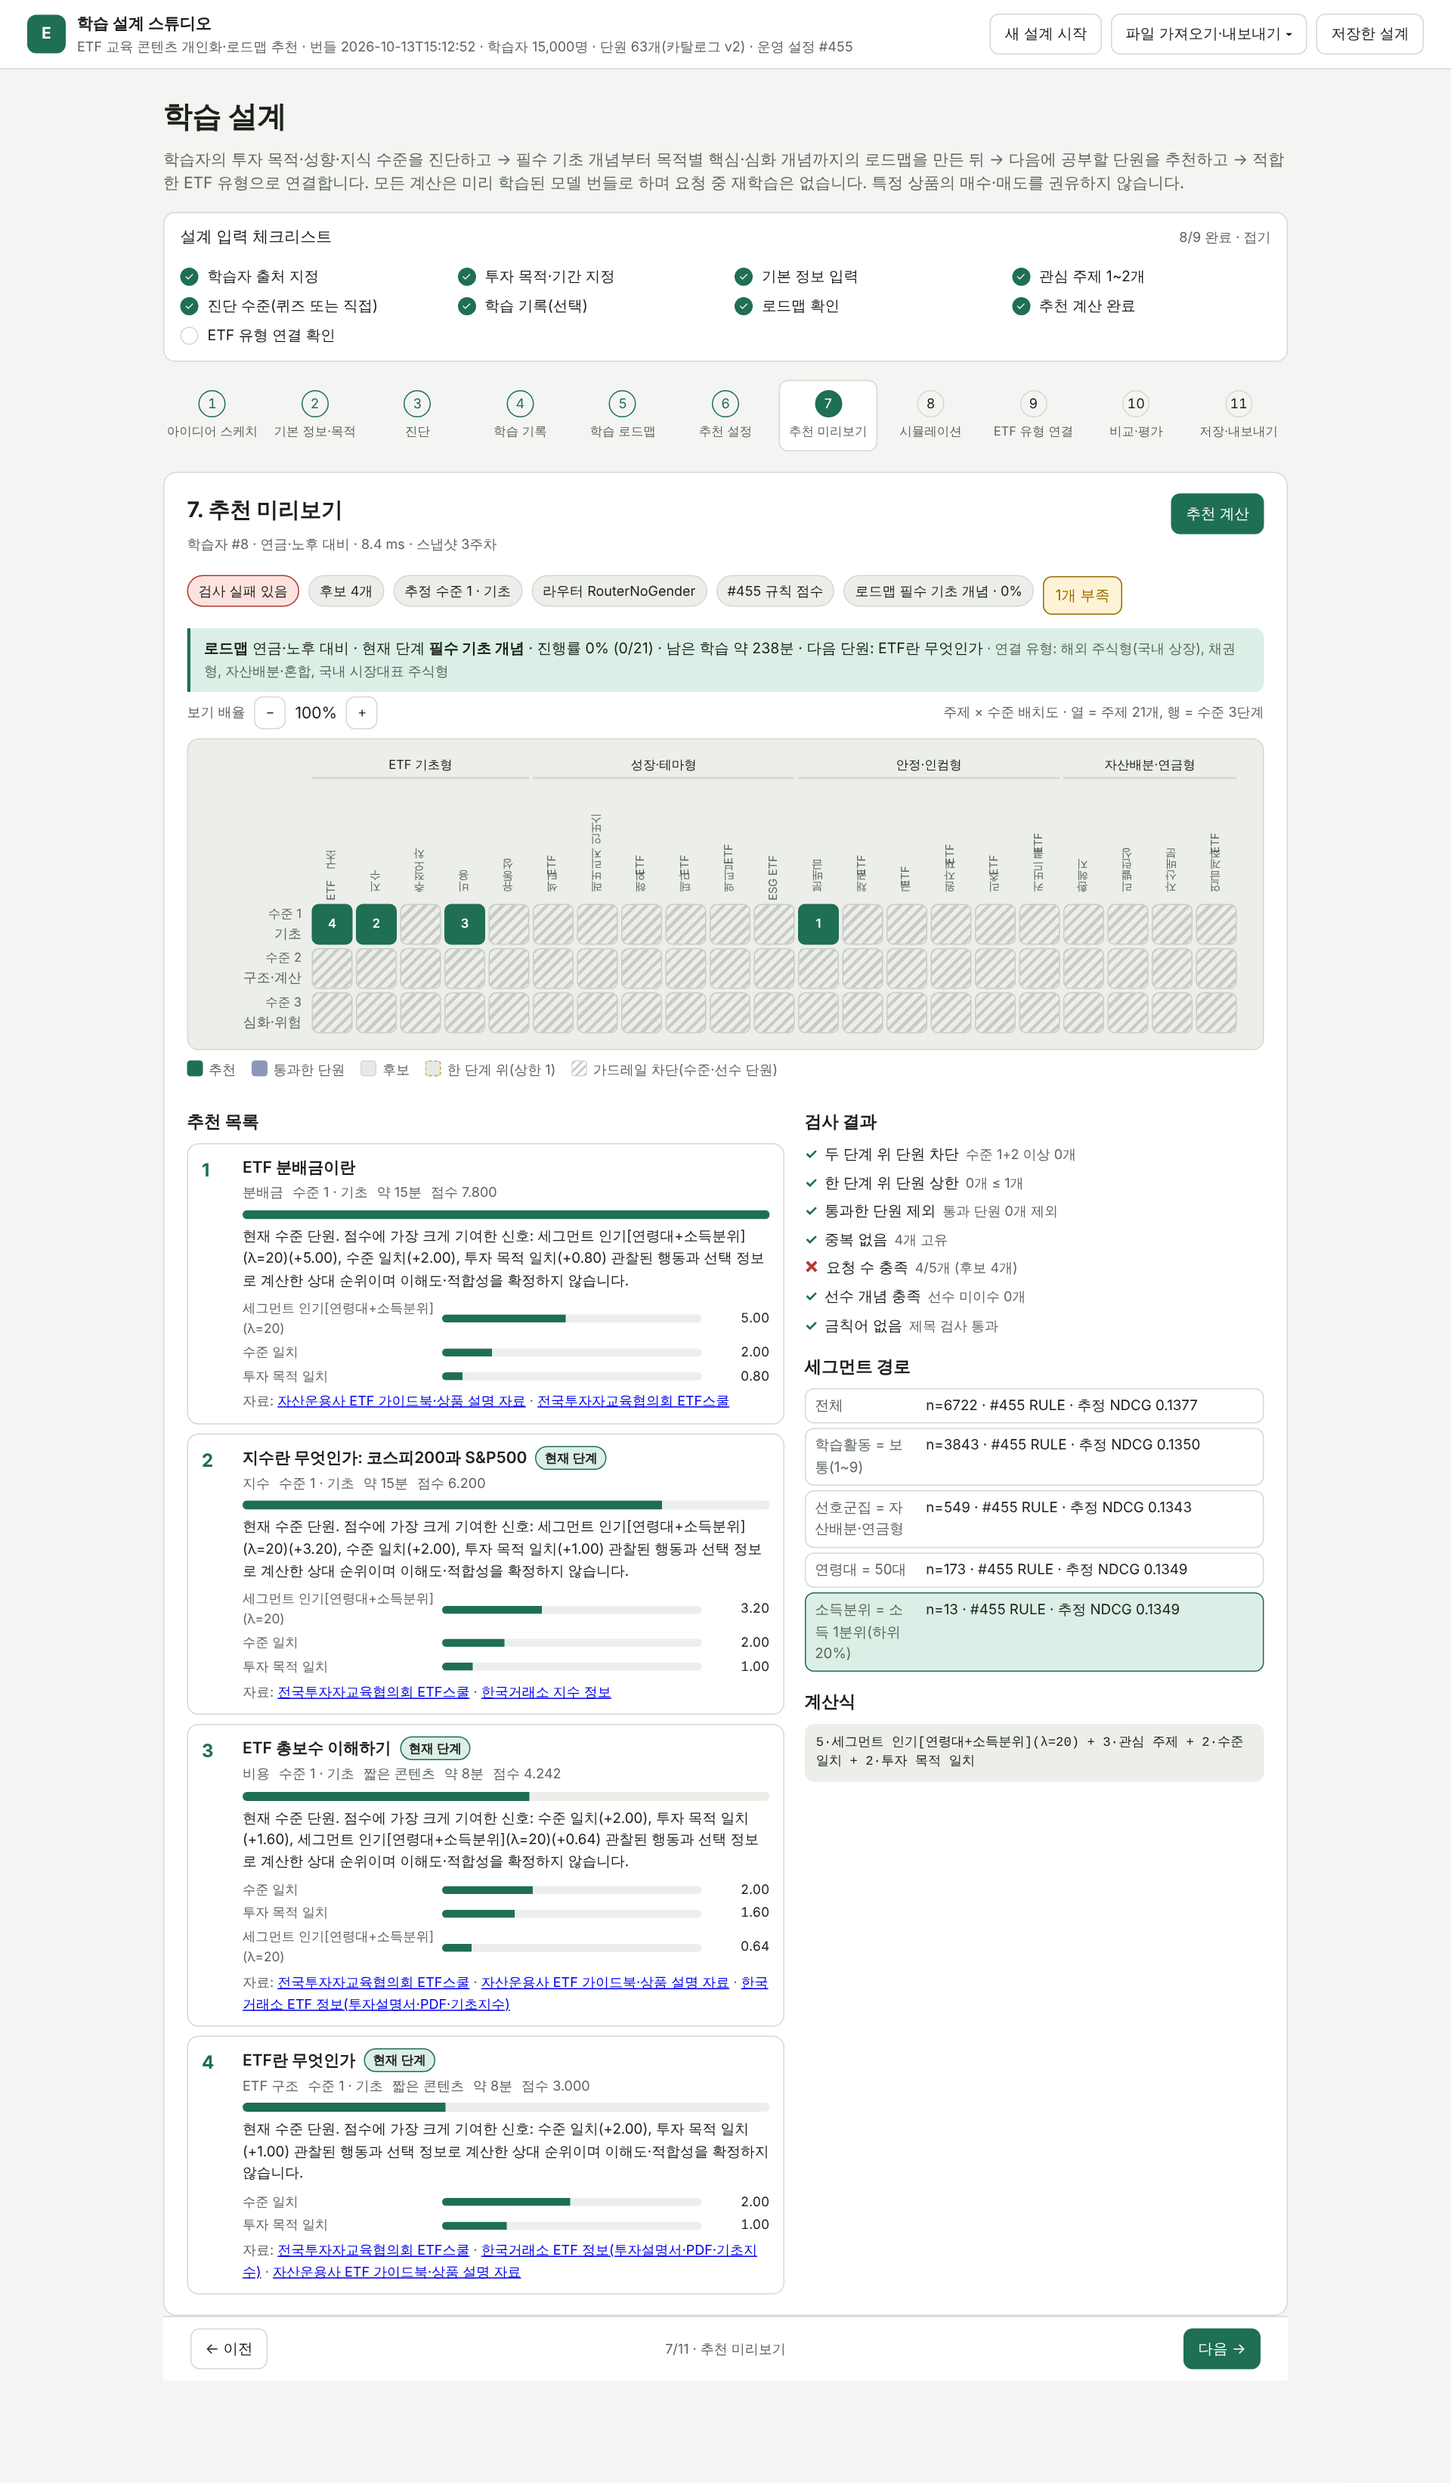
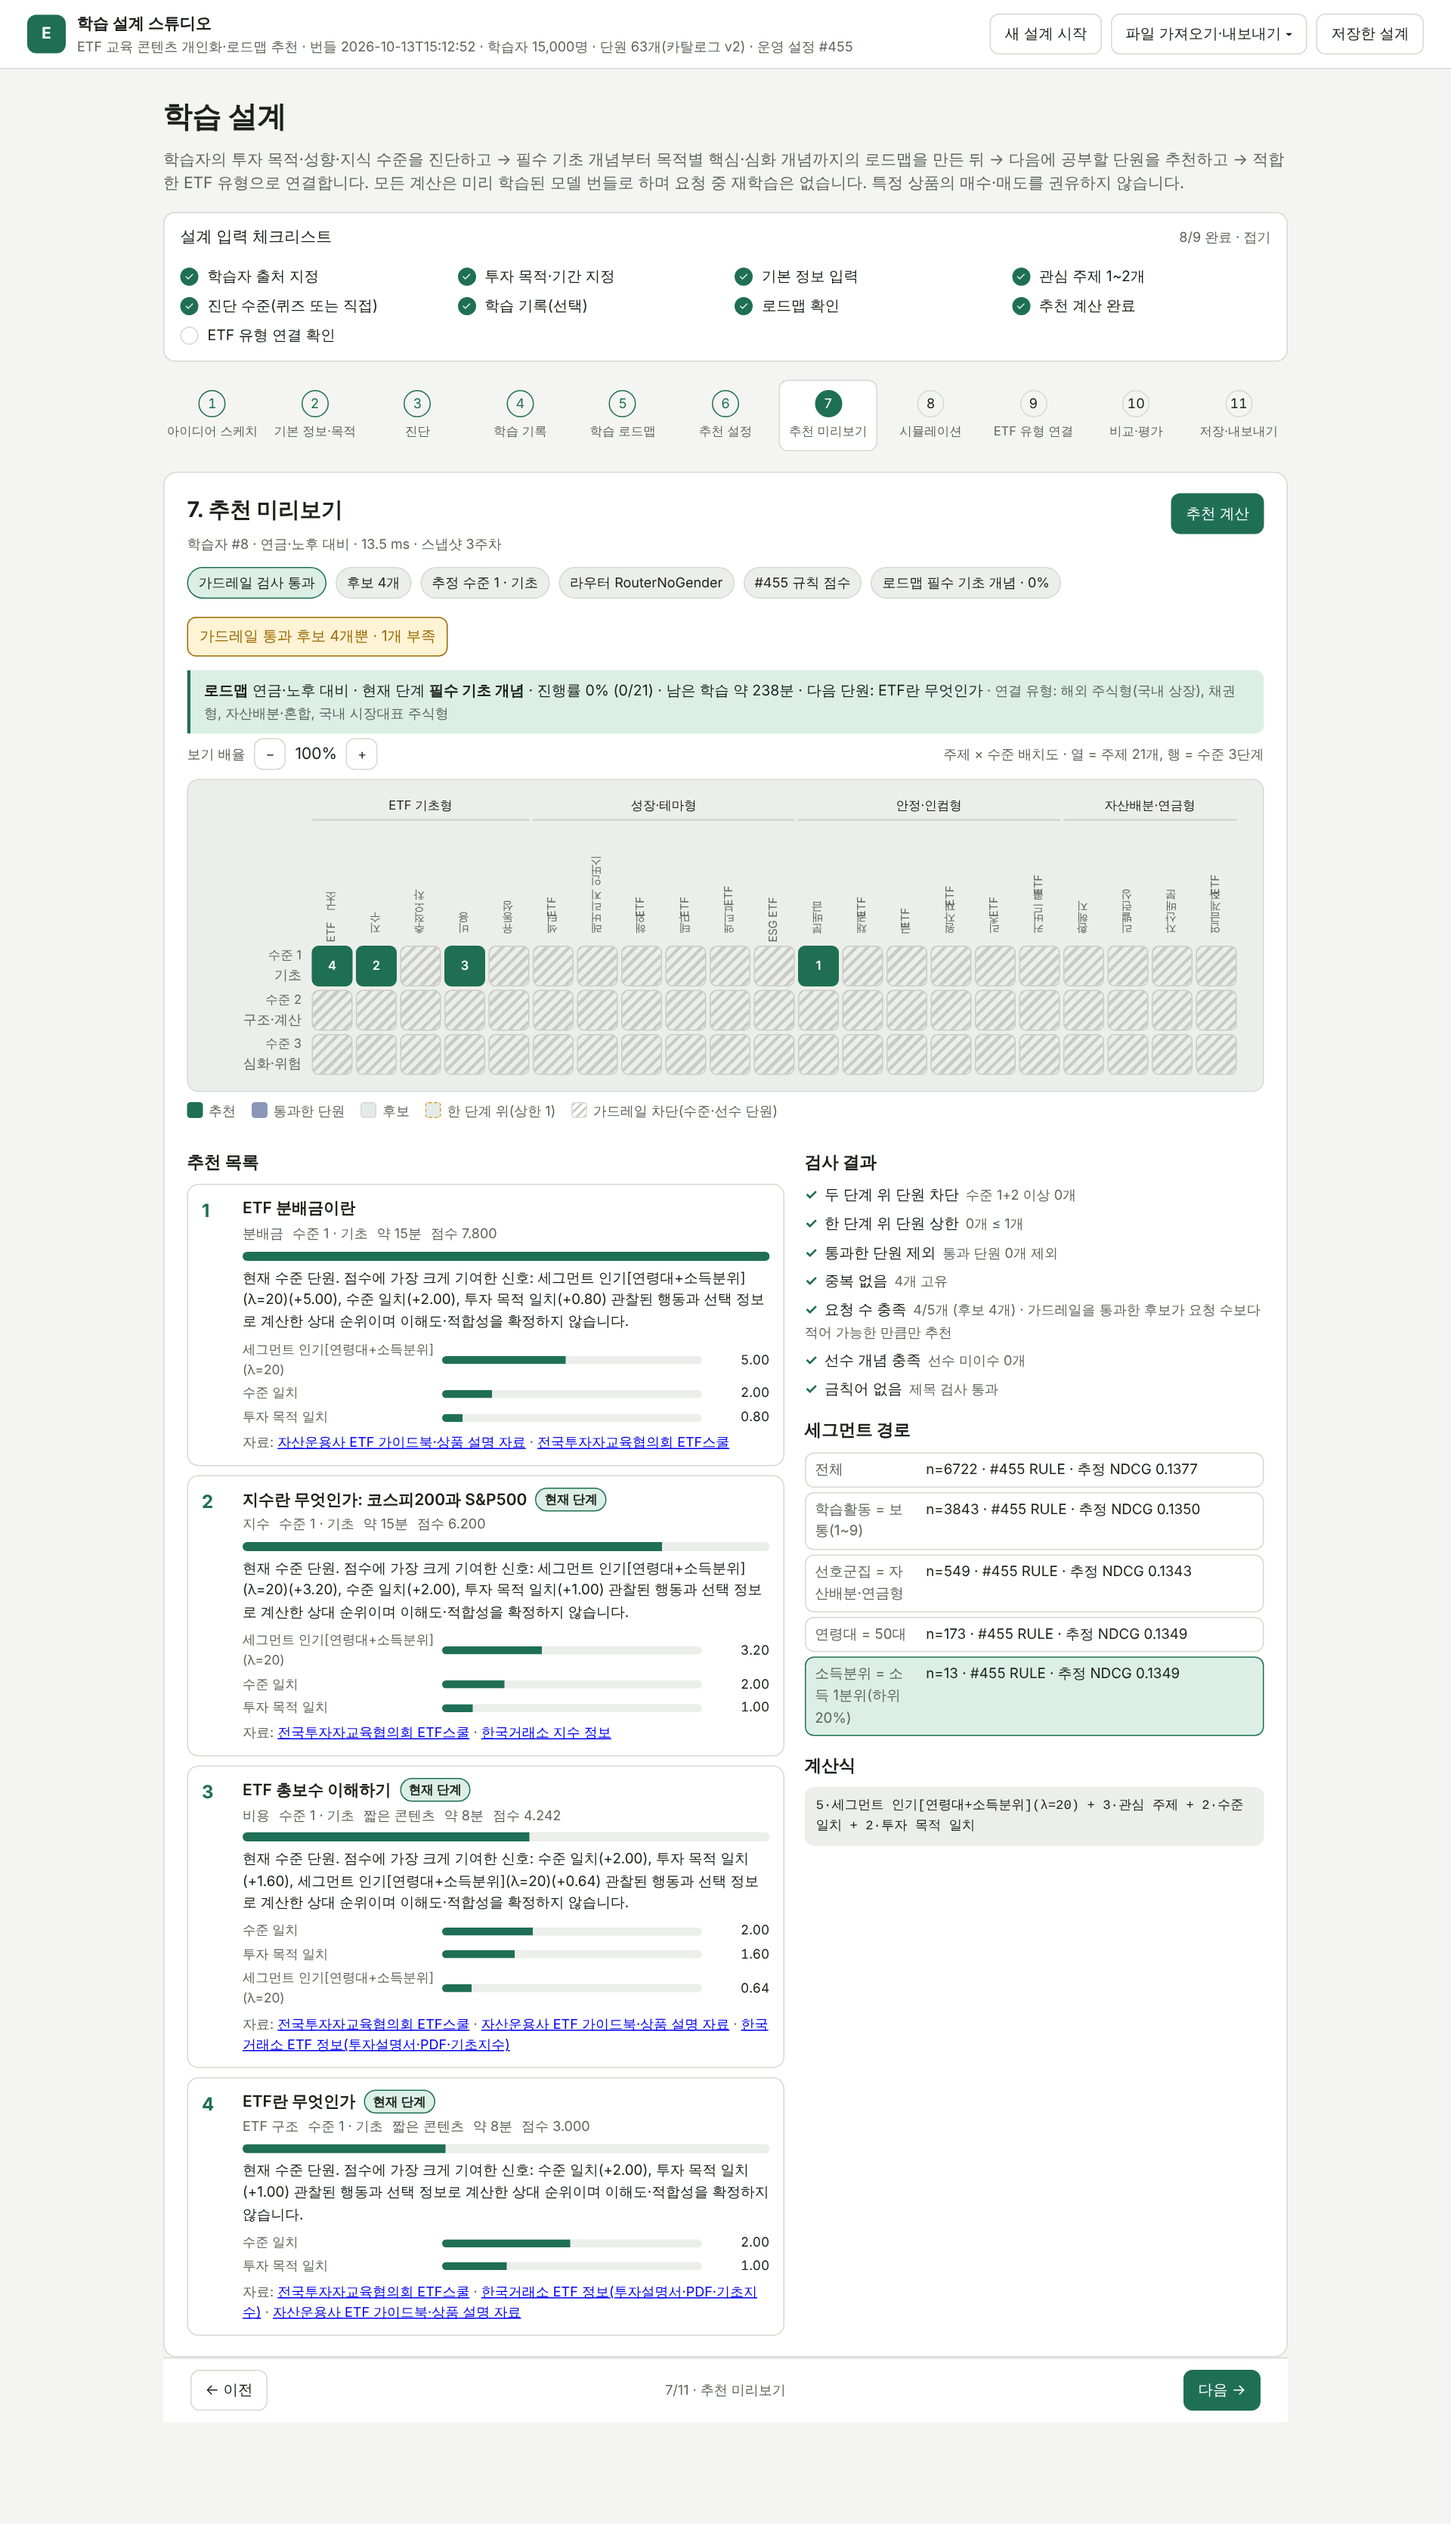
Parameterize generator v2 strengths, add prerequisite-penalty sensitivity script, soften the request-count check under guardrails
- TrainConfig.goal_effect / prereq_penalty 전달(기본값은 기존 상수와 같아 v2 번들 세계 불변 확인)
- scripts/prereq_sensitivity.py + docs/results/prereq_sensitivity.json: 선수 페널티 0.8→2.0→4.0에서 가드레일 비용 역전
- 요청 수 충족 검사는 가드레일 통과 후보가 k보다 적을 때 가능한 만큼 추천하면 통과로 기록, UI 배지 문구 보완
- 화면 캡처 재생성(기존 학습자 미리보기 반영)

Claude-Session: https://claude.ai/code/session_01Tgh9FaD7Z5CarJfhd185SF

diff --git a/etfrec/ui/app.js b/etfrec/ui/app.js
@@ -346,7 +346,7 @@
     $("#rec-view").hidden = false;
     const allOk = r.checks.every(c => c.passed); const rm = r.roadmap || {};
     $("#rec-badges").innerHTML = `<span class="badge ${allOk ? "ok" : "bad"}">${allOk ? "가드레일 검사 통과" : "검사 실패 있음"}</span><span class="badge">후보 ${r.candidates ?? 0}개</span><span class="badge">추정 수준 ${r.level} · ${LEVEL_NAME[r.level]}</span><span class="badge">${r.router ? "라우터 " + r.router : "설정 강제"}</span><span class="badge">#${r.algorithm_id} ${esc(r.family_label)}</span>` +
-      (rm.current_stage_name ? `<span class="badge">로드맵 ${esc(rm.current_stage_name)} · ${pct(rm.progress)}</span>` : "") + (r.shortfall ? `<span class="badge warn">${r.shortfall}개 부족</span>` : "");
+      (rm.current_stage_name ? `<span class="badge">로드맵 ${esc(rm.current_stage_name)} · ${pct(rm.progress)}</span>` : "") + (r.shortfall ? `<span class="badge warn">${(r.candidates ?? 0) < r.k ? `가드레일 통과 후보 ${r.candidates}개뿐 · ` : ""}${r.shortfall}개 부족</span>` : "");
     $("#rec-roadmap").innerHTML = rm.next_unit ? `<b>로드맵</b> ${esc(rm.goal_label)} · 현재 단계 <b>${esc(rm.current_stage_name)}</b> · 진행률 ${pct(rm.progress)} (${rm.units_passed}/${rm.units_total}) · 남은 학습 약 ${rm.minutes_left}분 · 다음 단원: ${esc(rm.next_unit.title)}<span class="muted small"> · 연결 유형: ${(rm.types || []).map(k => esc(META.type_names[k] || k)).join(", ")}</span>`
       : `<b>로드맵</b> ${esc(rm.goal_label || "")} · 로드맵 단원을 모두 통과했습니다. 연결 유형: ${(rm.types || []).map(k => esc(META.type_names[k] || k)).join(", ")}`;
     renderMap(r.topic_map, "#topic-map");

diff --git a/scripts/prereq_sensitivity.py b/scripts/prereq_sensitivity.py
@@ -1,0 +1,33 @@
+"""선수 페널티 강도에 따른 선수 가드레일 비용 민감도 (작은 모의 세계, 학습자 3,000명 · 약 40초/세계).
+
+    python scripts/prereq_sensitivity.py [out.json]
+
+생성기 v2의 '미이수 선수 단원 1개당 완료·통과 로짓 감소'(기본 0.8)를 0.8 → 2.0 → 4.0으로 키우며,
+운영 라우터와 '운영 라우터+선수 가드레일'의 테스트 NDCG@5·선수 미이수 비율·짧은 목록 비율을 기록한다.
+선수 관계가 학습 성과를 강하게 지배하는 세계일수록 가드레일의 정확도 비용이 줄고 역전된다(중간보고서 5절).
+"""
+import json, sys, time
+sys.path.insert(0, ".")
+from etfrec.config import TrainConfig
+from etfrec.data import Dataset
+from etfrec.pipeline import train
+
+out = []
+for pen in [0.8, 2.0, 4.0]:
+    t0 = time.time()
+    cfg = TrainConfig(n_learners=3000, prereq_penalty=pen, router_reps=1, bootstrap_n=100)
+    b = train(Dataset.synthetic(cfg), cfg, out_dir=None, log=lambda *a, **k: None)
+    res = b.results.set_index("method")
+    row = dict(prereq_penalty=pen, users=int(res.loc["RULE", "users"]), validation_best=float(b.selection["validation_best_ndcg"]),
+               operational=b.algos[b.selection["operational_algorithm"]].name, seconds=round(time.time() - t0, 1),
+               quiz_pass=int(b.dataset_summary["quiz_pass"]), attempts=int(b.dataset_summary["study_attempts"]))
+    for m in ["Global", "RouterNoGender", "RouterNoGender+prereq", "POP", "UCF"]:
+        if m in res.index:
+            row[m] = dict(ndcg=float(res.loc[m, "ndcg"]), prereq_violation_rate=float(res.loc[m, "prereq_violation_rate"]),
+                          short_list_rate=float(res.loc[m, "short_list_rate"]), diversity=float(res.loc[m, "diversity"]),
+                          ci_low=float(res.loc[m, "ci_low"]), ci_high=float(res.loc[m, "ci_high"]))
+    out.append(row)
+    print(f"페널티 {pen}: 라우터 {row['RouterNoGender']['ndcg']:.4f} vs +prereq {row['RouterNoGender+prereq']['ndcg']:.4f} "
+          f"(위반 {row['RouterNoGender']['prereq_violation_rate']:.2f} → 0, 짧은 목록 {row['RouterNoGender+prereq']['short_list_rate']:.2f}) · {row['seconds']}s")
+if len(sys.argv) > 1:
+    json.dump(out, open(sys.argv[1], "w", encoding="utf-8"), ensure_ascii=False, indent=1)

diff --git a/etfrec/synth.py b/etfrec/synth.py
@@ -62,7 +62,8 @@ def sample_horizon(rg: np.random.Generator, goal) -> np.ndarray:
 
 
 def make_world(n: int, catalog: Catalog, seed: int = SEED, effect: float = EFFECT_SCALE,
-               gender_effect: float = GENDER_EFFECT, n_weeks: int = N_WEEKS, version: int = GENERATOR_VERSION) -> dict:
+               gender_effect: float = GENDER_EFFECT, n_weeks: int = N_WEEKS, version: int = GENERATOR_VERSION,
+               goal_effect: float = GOAL_EFFECT, prereq_penalty: float = PREREQ_PENALTY) -> dict:
     """학습자 n명의 프로필과 n_weeks주 학습 로그를 만든다."""
     r = np.random.default_rng(seed)
     v2 = int(version) >= 2
@@ -105,7 +106,7 @@ def make_world(n: int, catalog: Catalog, seed: int = SEED, effect: float = EFFEC
     g_eff = np.random.default_rng(seed + 7).normal(0, gender_effect, N_TOP)
     B += effect * np.where(gender[:, None] == 1, 0.5, -0.5) * g_eff
     if v2:
-        B += GOAL_EFFECT * affinity_matrix(catalog)[goal]        # 목적이 주제 선호를 기울인다
+        B += goal_effect * affinity_matrix(catalog)[goal]        # 목적이 주제 선호를 기울인다
     p = np.exp(B); p /= p.sum(1, keepdims=True)
     th = r.gamma(20 * p); theta = th / th.sum(1, keepdims=True)
     interests = np.argsort(-(np.log(theta + 1e-9) + r.gumbel(size=theta.shape)), 1)[:, :2]   # 온보딩 관심 주제 2개
@@ -146,7 +147,7 @@ def make_world(n: int, catalog: Catalog, seed: int = SEED, effect: float = EFFEC
             pen = 0.0
             if v2:                                                 # 선수 단원을 모르면 완료·통과가 어렵다
                 missing = np.minimum(((~understood[uu]).astype(np.int32) * P_T[:, ii].T).sum(1), 2)
-                pen = PREREQ_PENALTY * missing
+                pen = prereq_penalty * missing
             comp = r.random(len(uu)) < sgm(0.8 + 0.8 * diligence[uu] - 1.4 * gap - pen)
             quiz = comp & (r.random(len(uu)) < 0.7)
             qpass = quiz & (r.random(len(uu)) < sgm(1.5 + 0.6 * diligence[uu] - 1.8 * gap - pen))

diff --git a/etfrec/service.py b/etfrec/service.py
@@ -309,7 +309,8 @@ class RecommendationService:
                      detail=f"{int(np.sum(lv - level == 1))}개 ≤ {guard.plus_one_max}개"),
                 dict(name="통과한 단원 제외", passed=bool(not any(lb.und[0][i] for i in ids)), detail=f"통과 단원 {int(lb.und[0].sum())}개 제외"),
                 dict(name="중복 없음", passed=len(ids) == len(set(ids)), detail=f"{len(ids)}개 고유"),
-                dict(name="요청 수 충족", passed=len(ids) == k, detail=f"{len(ids)}/{k}개 (후보 {len(ca)}개)"),
+                dict(name="요청 수 충족", passed=len(ids) == min(k, len(ca)),
+                     detail=f"{len(ids)}/{k}개 (후보 {len(ca)}개)" + (" · 가드레일을 통과한 후보가 요청 수보다 적어 가능한 만큼만 추천" if len(ca) < k else "")),
                 dict(name="선수 개념 충족", passed=bool(not guard.prereq_block or not any(it.get("missing_prereqs") for it in items)),
                      detail=(f"선수 미이수 {sum(1 for it in items if it.get('missing_prereqs'))}개" + ("" if guard.prereq_block else " (가드레일 꺼짐: 참고용)"))),
                 dict(name="금칙어 없음", passed=True, detail="제목 검사 통과")]

diff --git a/etfrec/data.py b/etfrec/data.py
@@ -96,7 +96,7 @@ class Dataset:
         cfg = cfg or TrainConfig()
         catalog = catalog or Catalog.default(cfg.seed, version=cfg.catalog_version)
         world = make_world(cfg.n_learners, catalog, seed=cfg.seed, effect=cfg.effect_scale, gender_effect=cfg.gender_effect,
-                           version=cfg.generator_version)
+                           version=cfg.generator_version, goal_effect=cfg.goal_effect, prereq_penalty=cfg.prereq_penalty)
         meta = dict(seed=cfg.seed, effect_scale=cfg.effect_scale, gender_effect=cfg.gender_effect, generator_version=cfg.generator_version,
                     catalog_version=catalog.version, gender_effect_by_topic=dict(zip(catalog.topics, np.round(world["g_eff"], 3).tolist())))
         return cls(world["profiles"], world["log"], catalog, source="synthetic", meta=meta)

diff --git a/etfrec/config.py b/etfrec/config.py
@@ -75,6 +75,8 @@ class TrainConfig:
     guardrail: GuardrailConfig = field(default_factory=GuardrailConfig)
     catalog_version: int = CATALOG_VERSION
     generator_version: int = GENERATOR_VERSION
+    goal_effect: float = 0.8        # 생성기 v2: 목적 친화도가 주제 선호 로짓에 더해지는 크기
+    prereq_penalty: float = 0.8     # 생성기 v2: 미이수 선수 단원 1개당 완료·통과 로짓 감소(최대 2개)
 
     @property
     def rule_parts(self):
